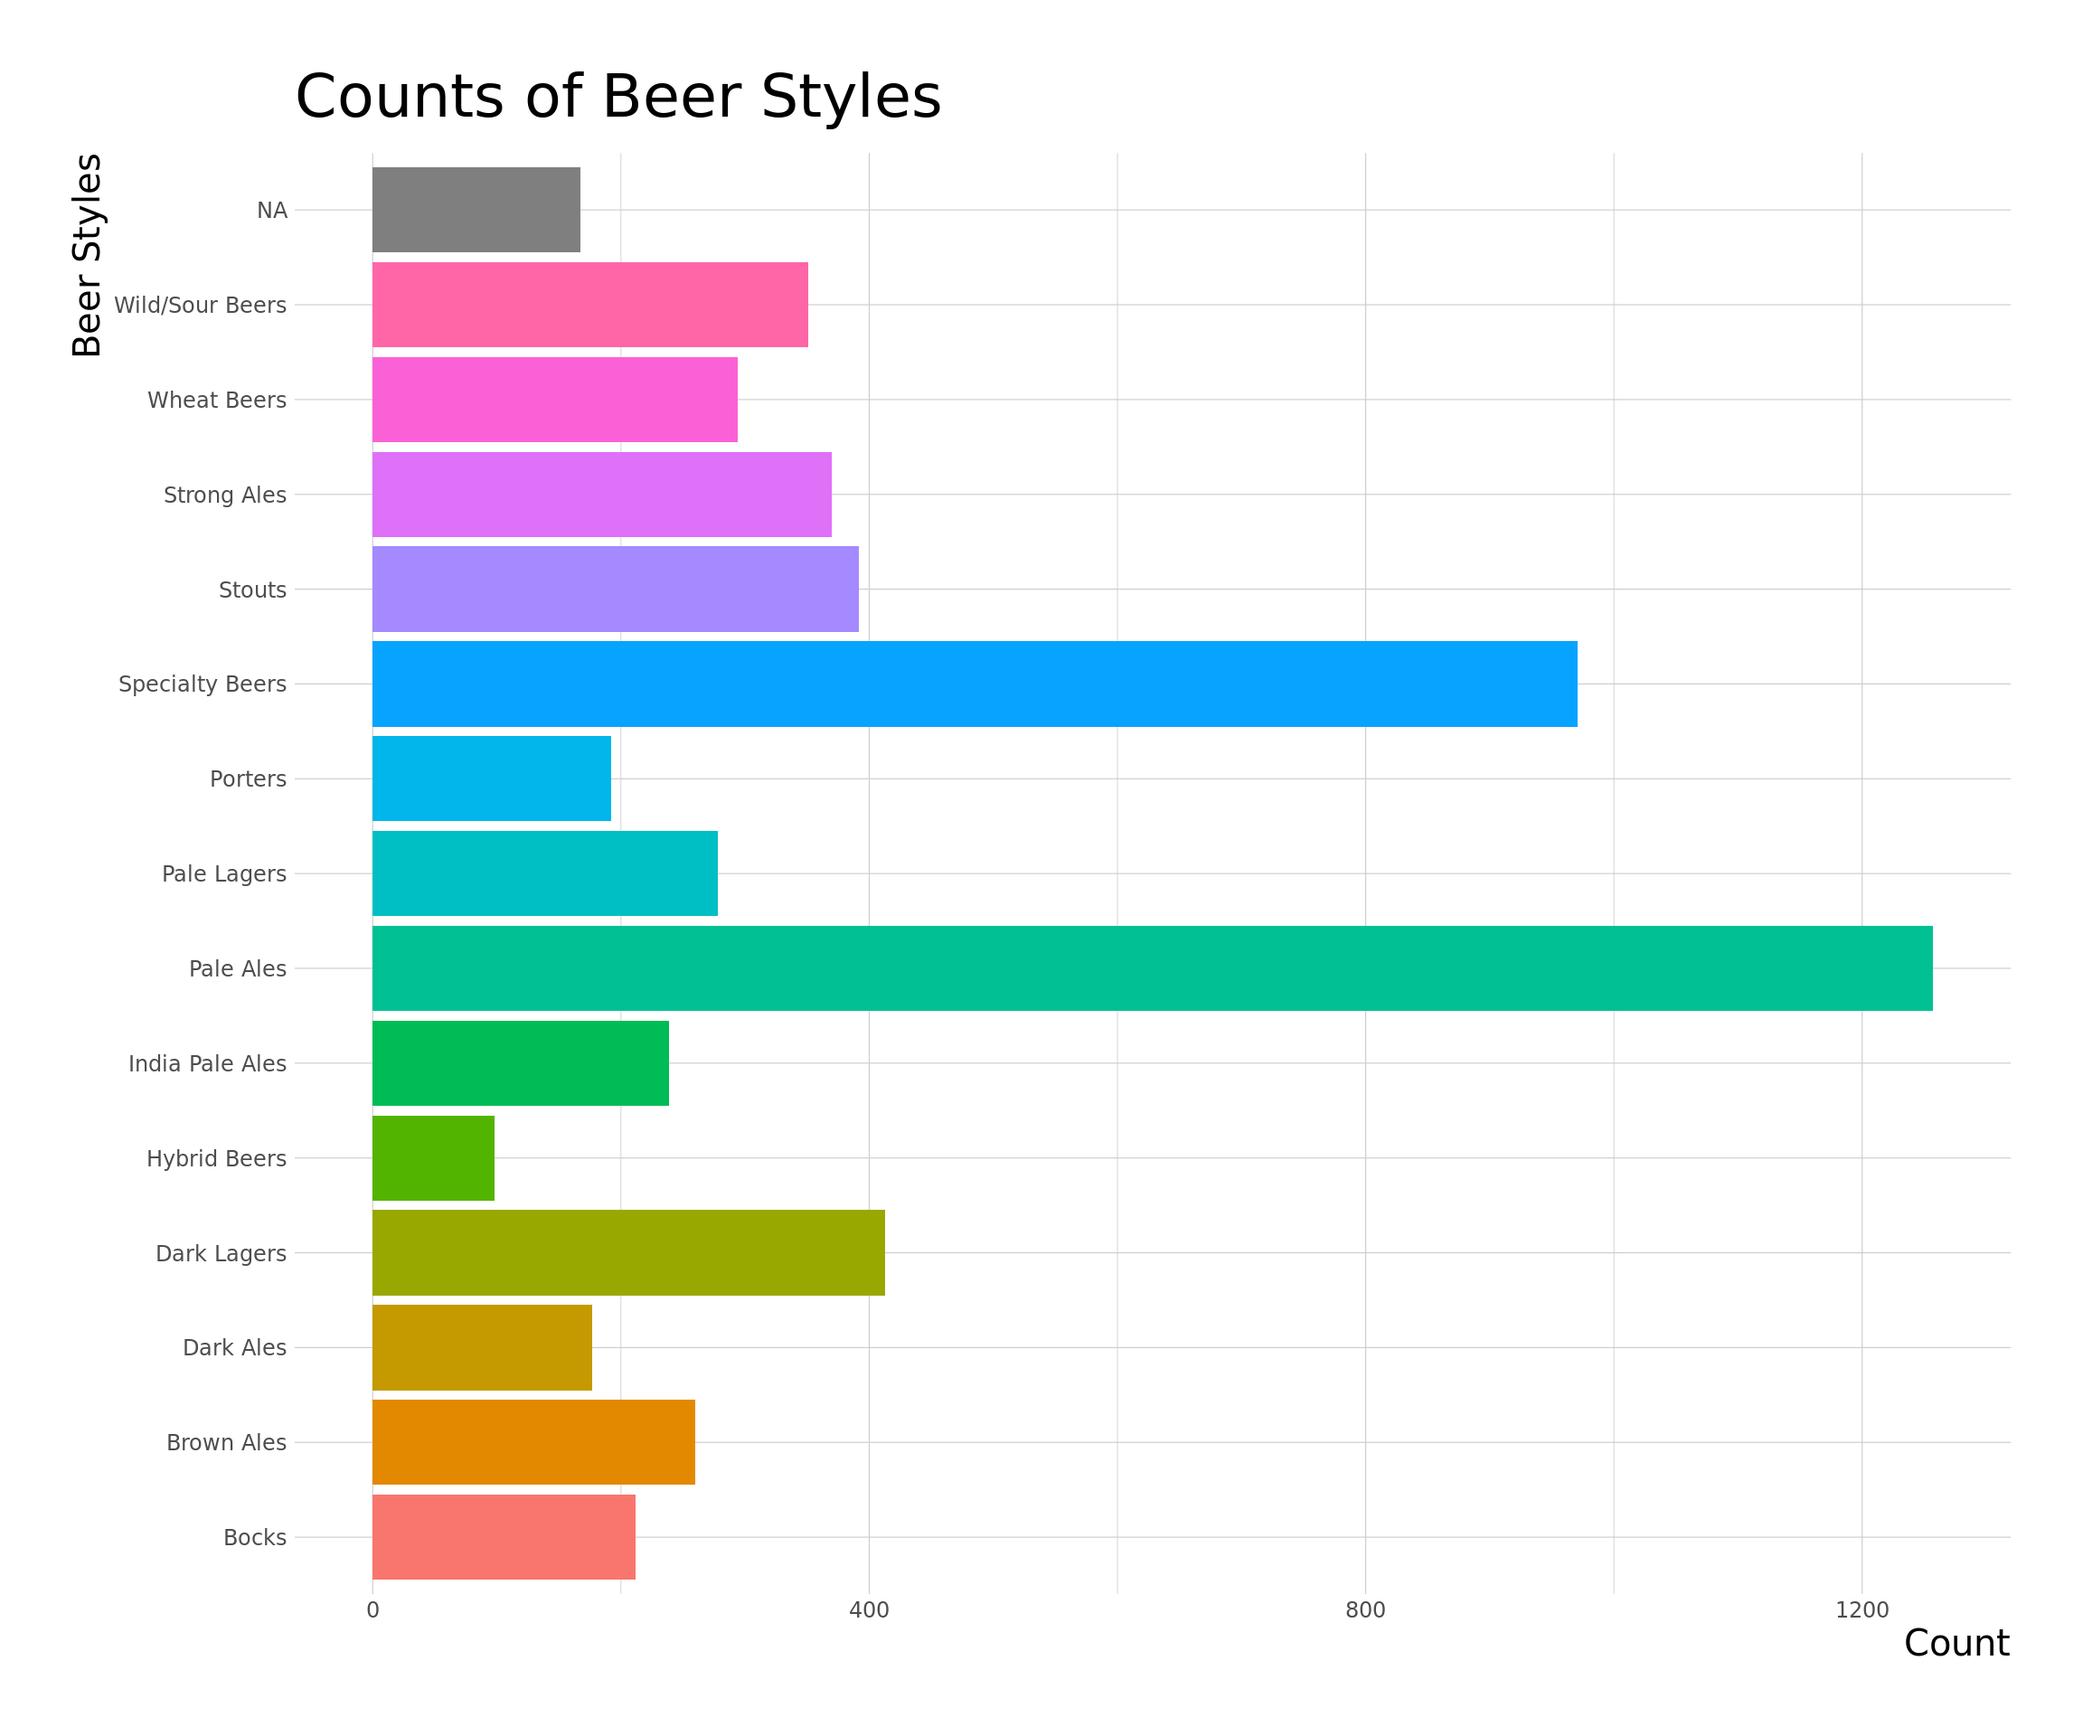
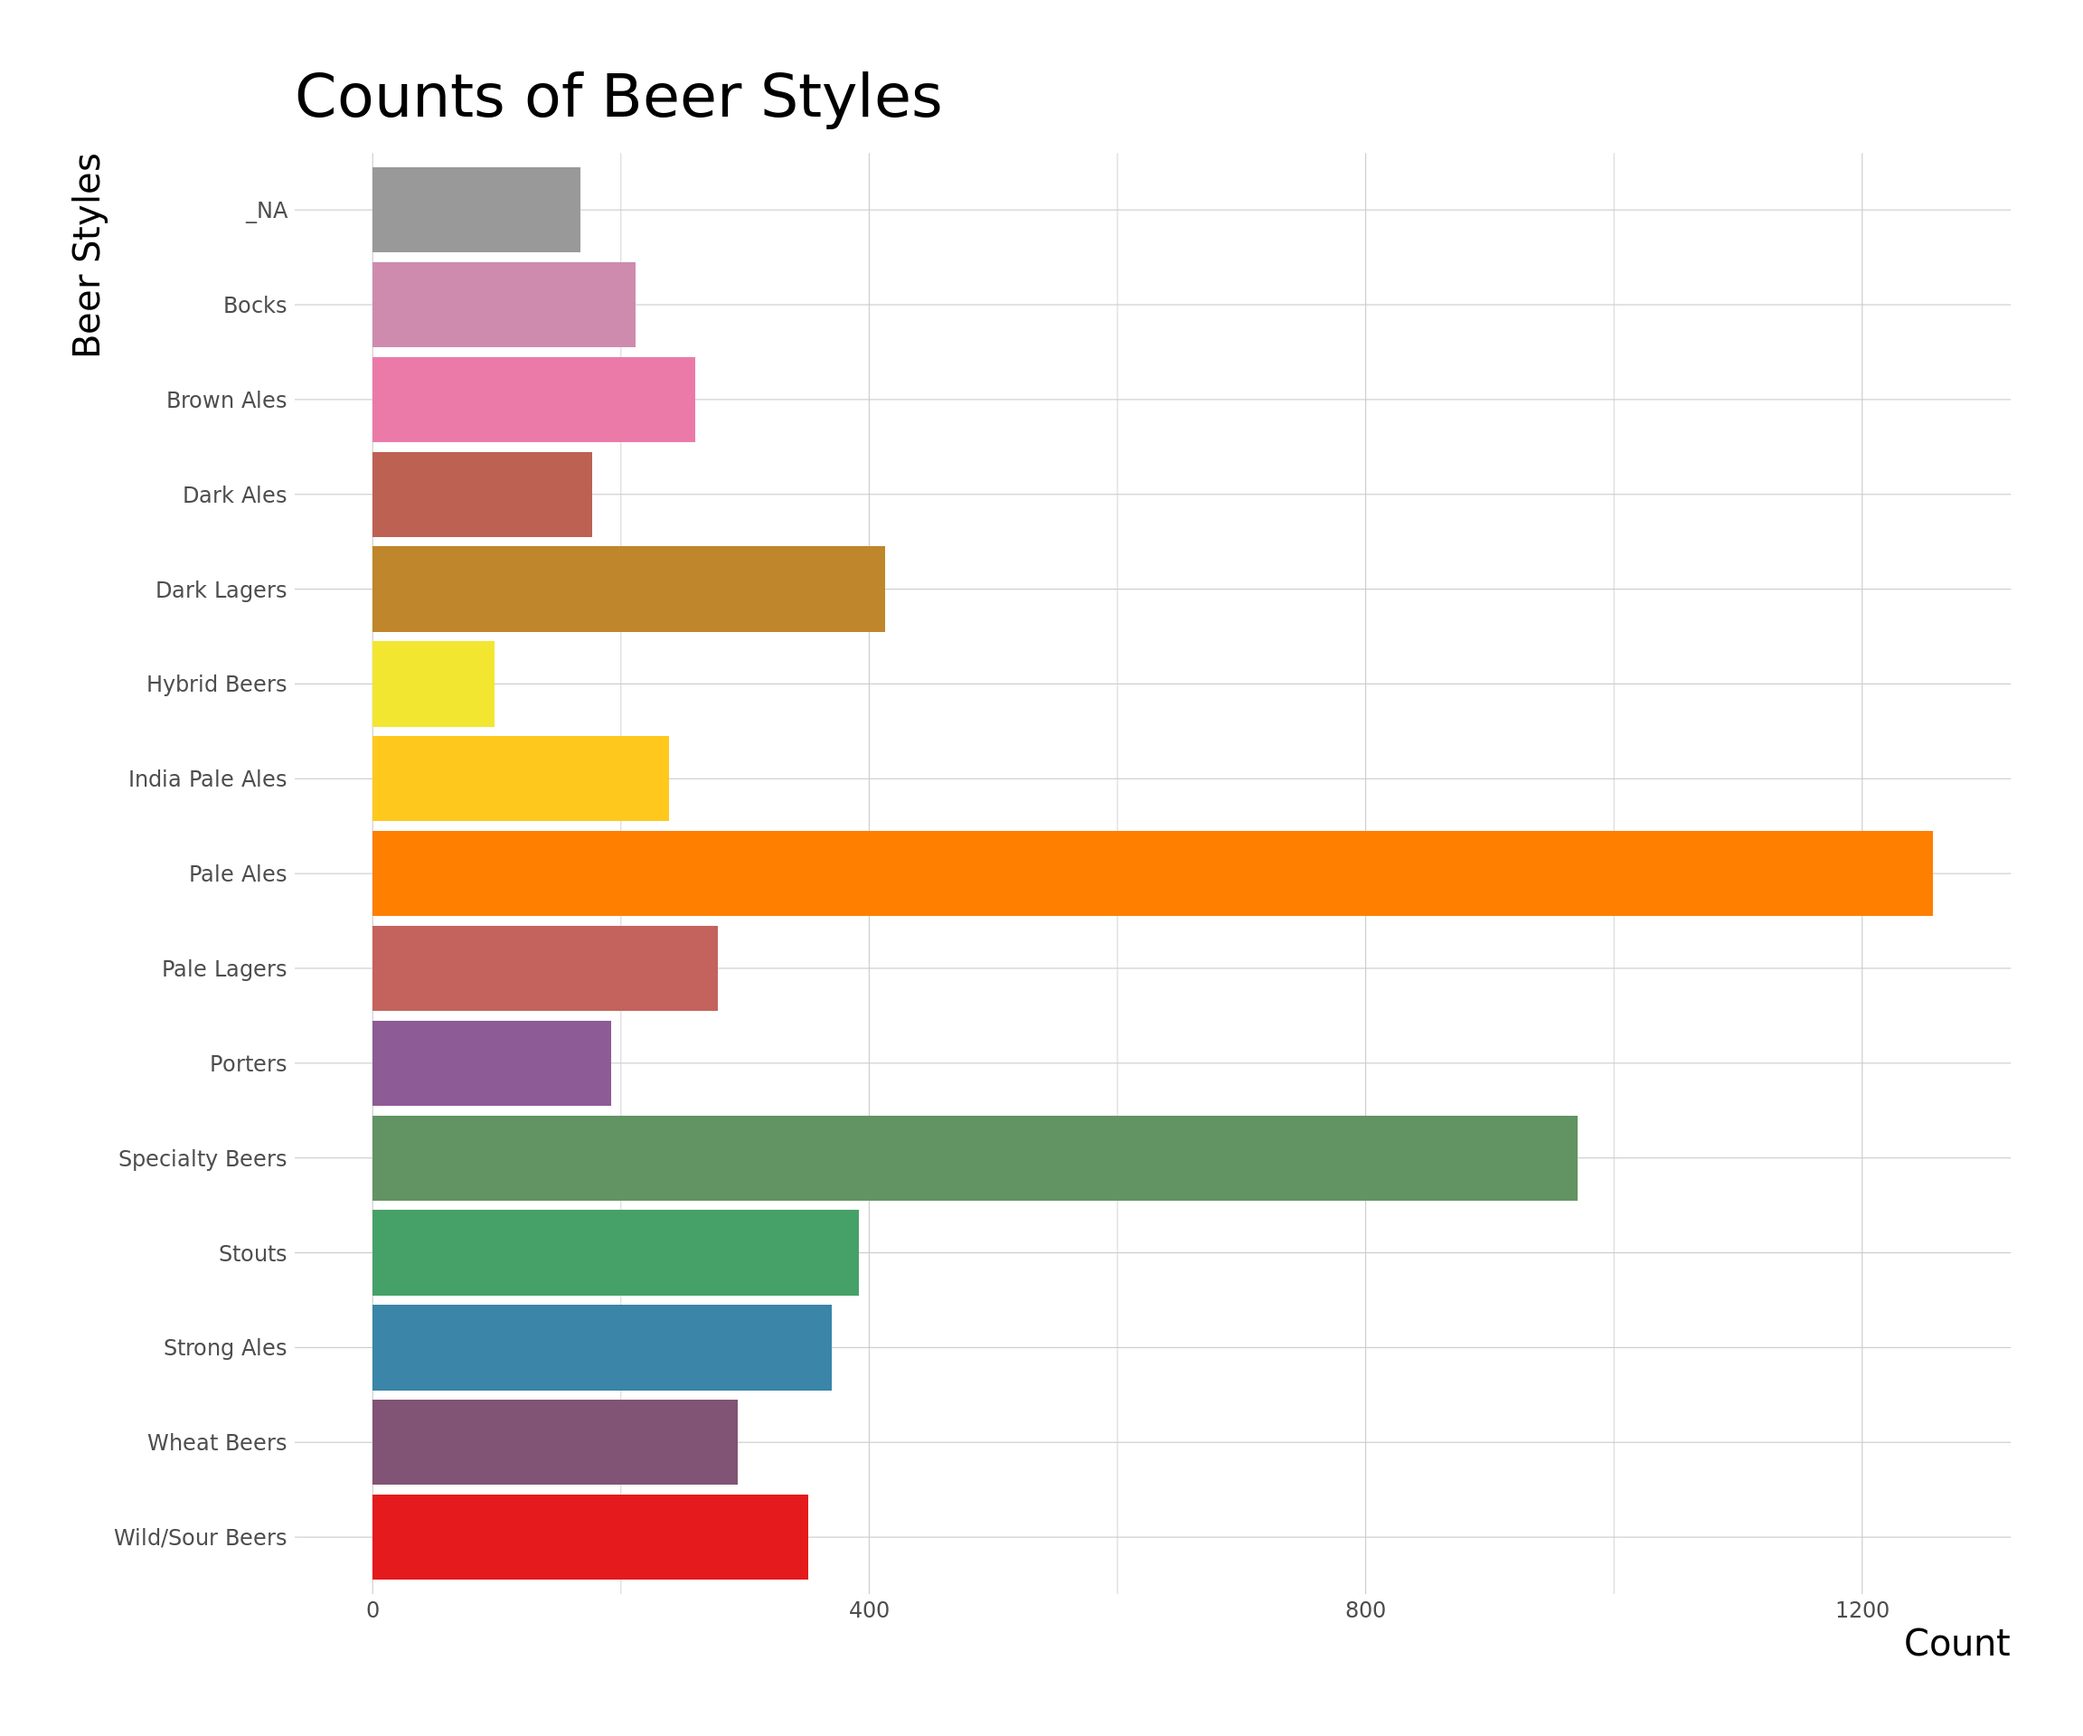
compare plots

diff --git a/content/post/2020-10-20-great-american-beer-festival/index.html b/content/post/2020-10-20-great-american-beer-festival/index.html
@@ -93,6 +93,8 @@ beer_awards_joined &lt;- beer_joined %&gt;%
   mutate(winner = !is.na(medal),
          category = str_to_title(category))</code></pre>
 <pre class="r"><code>beer_awards_joined %&gt;%
+  mutate(style = if_else(is.na(style), &quot;_NA&quot;, style),
+         style = fct_reorder(style, desc(style))) %&gt;%
   filter(winner) %&gt;%
   count(style) %&gt;%
   ggplot() +
@@ -100,7 +102,8 @@ beer_awards_joined &lt;- beer_joined %&gt;%
   geom_col(position = &quot;dodge&quot;) +
   theme_ipsum_ps(axis_title_size = 15, plot_title_size = 25) +
   labs(x = &quot;Count&quot;, y = &quot;Beer Styles&quot;, title = &quot;Counts of Beer Styles&quot;) +
-  theme(legend.position = &quot;none&quot;) #test</code></pre>
+  theme(legend.position = &quot;none&quot;) +
+  scale_fill_manual(values = getPalette(15))</code></pre>
 <p><img src="index_files/figure-html/unnamed-chunk-2-1.png" width="1152" /></p>
 <pre class="r"><code>library(tidylo)
 library(tidytext)
